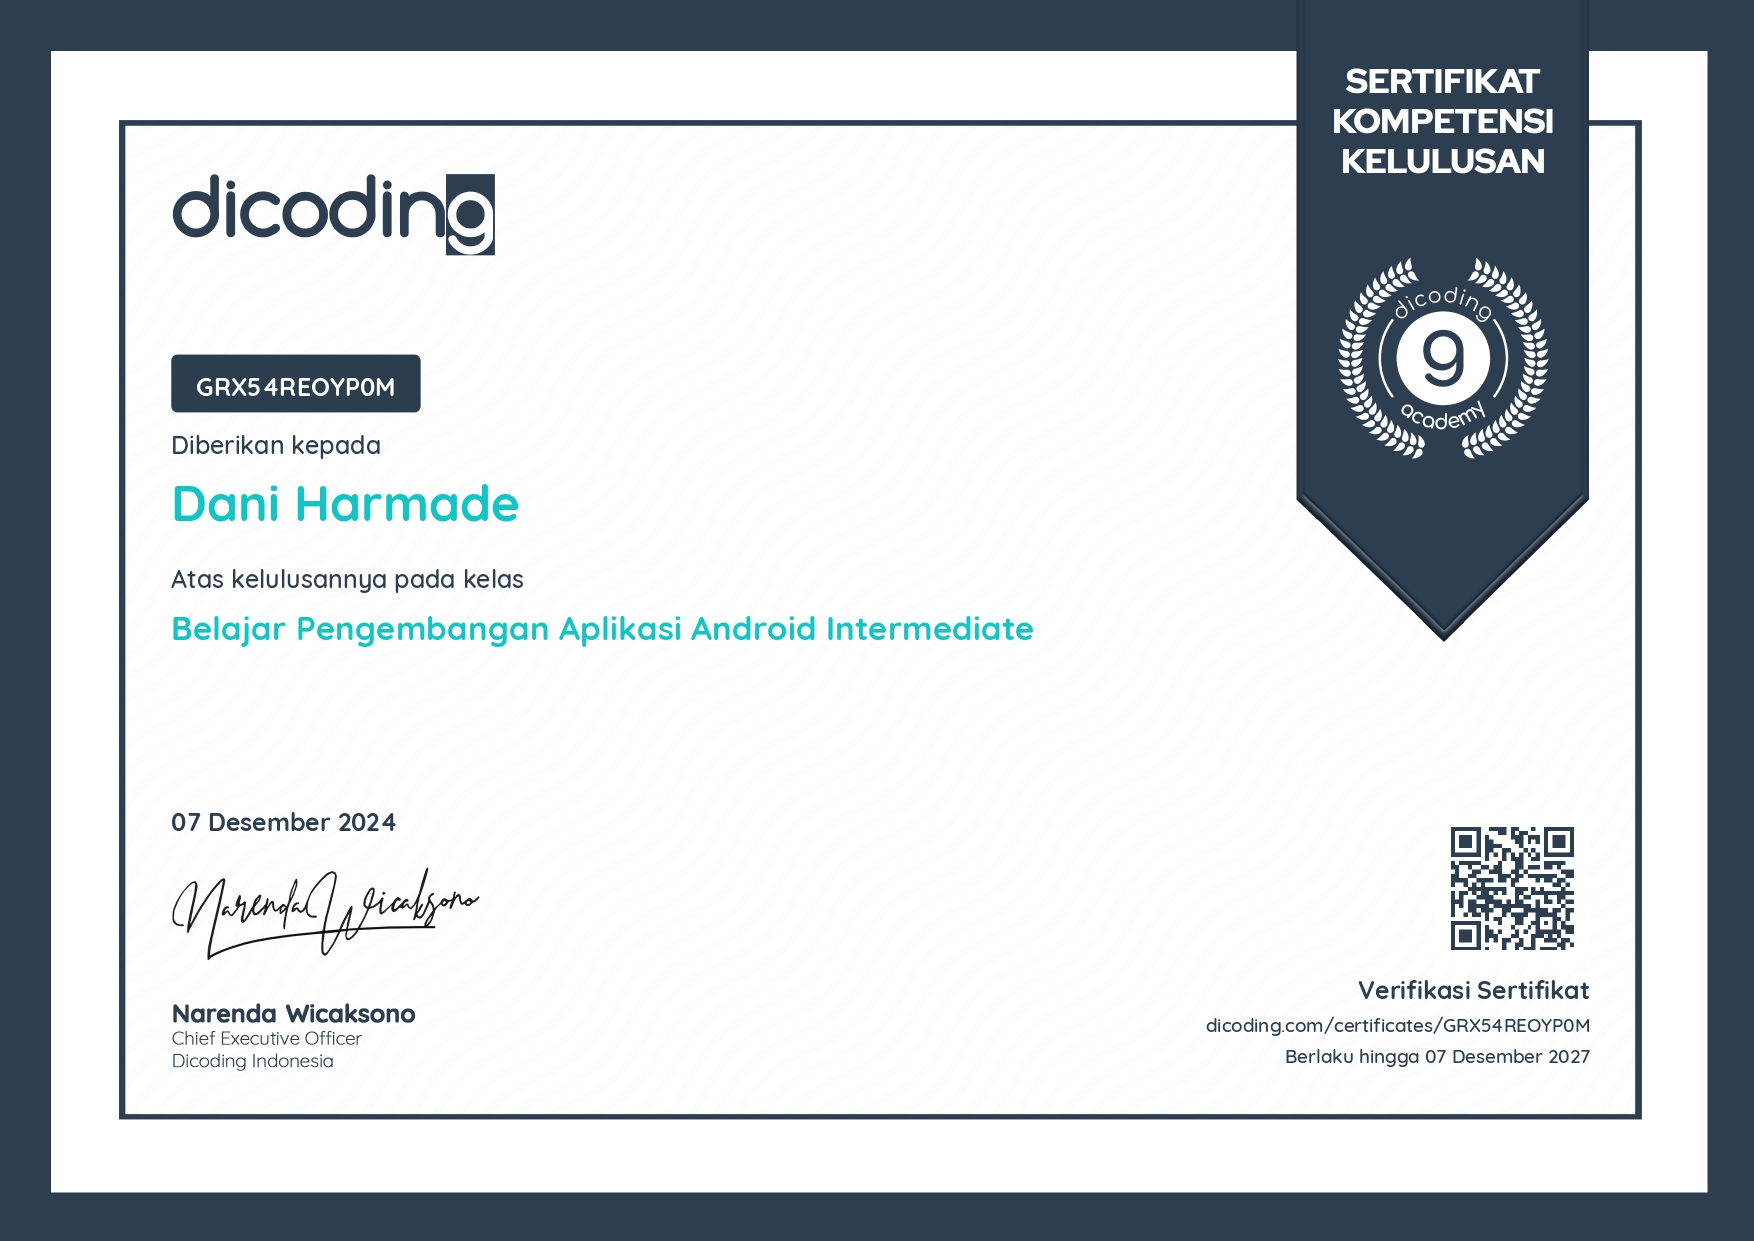
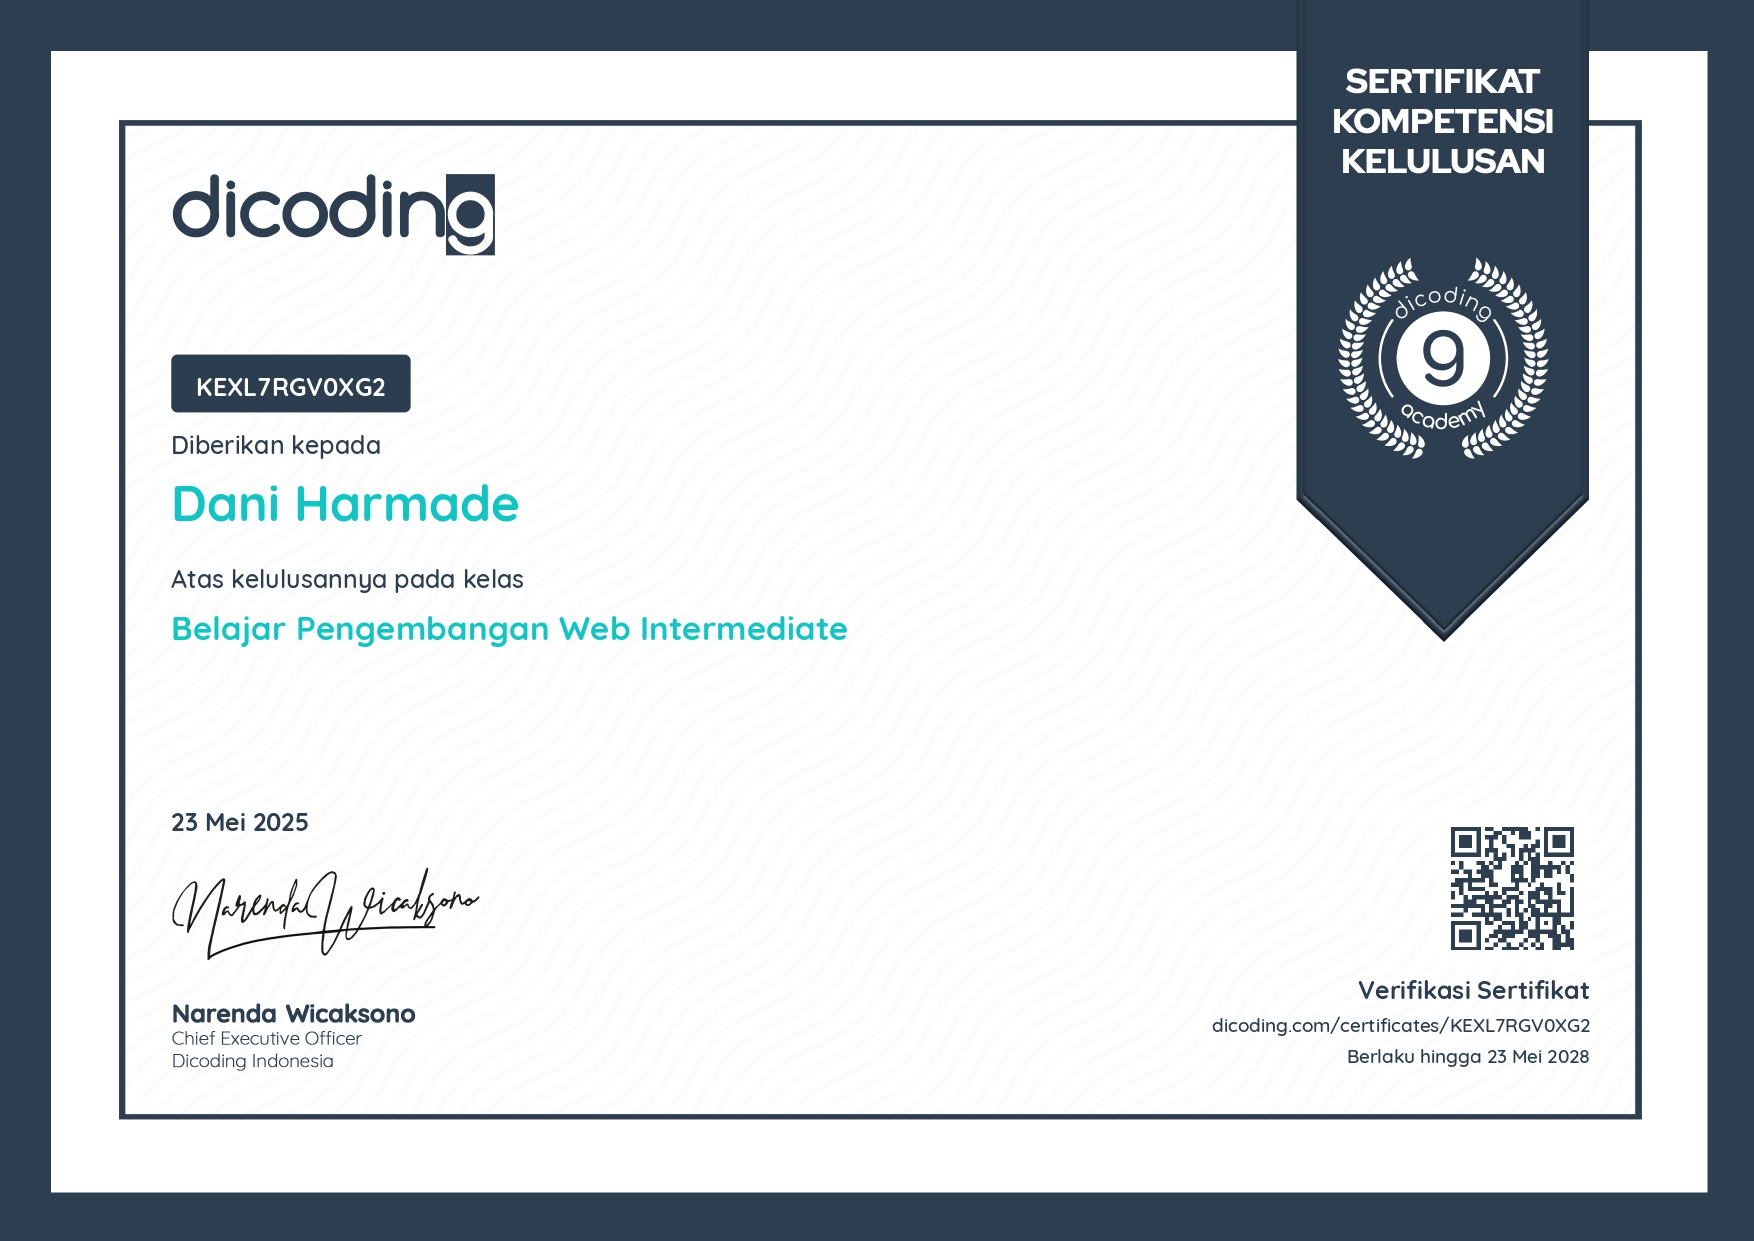
fix: bug at certificate

diff --git a/app/constants.ts b/app/constants.ts
@@ -169,7 +169,7 @@ export const CERTIFICATIONS = [
     title: "Intermediate Web Development",
     issuedBy: "Dicoding",
     date: "May 2025",
-    images: ["/certificate/Dicoding-AndroidIntermediate.jpg"],
+    images: ["/certificate/Dicoding-WebIntermediate.jpg"],
     certificateUrl: "https://www.dicoding.com/certificates/KEXL7RGV0XG2",
   },
   {
